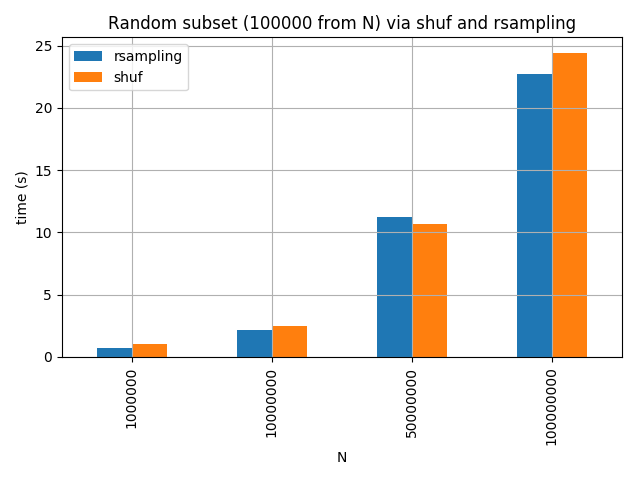
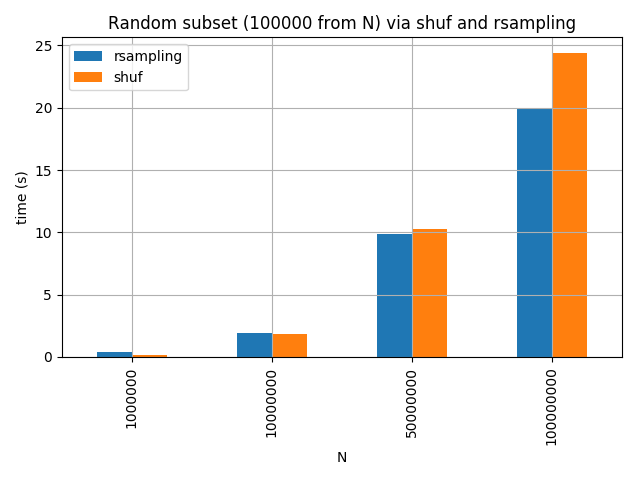
update README

diff --git a/chart.py b/chart.py
@@ -99,6 +99,7 @@ if __name__ == '__main__':
     sizes = (10, 100, 1000, 10000, 20000, 30000, 40000, 50000)
     bm = collections.defaultdict(list)
 
+    # Basic benchmark.
     for n in sizes:
         with Timer() as t:
             shellout("seq {n} | rsampling -s 16", n=n)
@@ -152,12 +153,12 @@ if __name__ == '__main__':
 
     for n in sizes:
         with Timer() as t:
-            shellout("seq {n} | rsampling -s 100000", n=n)
+            shellout("seq {n} | rsampling -s 100000 > /dev/null", n=n)
         bm['rsampling'].append(t.elapsed)
 
     for n in sizes:
         with Timer() as t:
-            shellout("seq {n} | shuf | head -100000", n=n, pipefail=False)
+            shellout("seq {n} | shuf | head -100000 > /dev/null", n=n, pipefail=False)
         bm['shuf'].append(t.elapsed)
     
     df = pd.DataFrame(bm, index=sizes)

diff --git a/README.md b/README.md
@@ -69,6 +69,16 @@ user    0m0.168s
 sys     0m0.013s
 ```
 
+## Comparison to sort and shuf
+
+Options:
+
+```
+$ seq 100 | rsampling -s 16
+$ seq 100 | sort -R | head -16
+$ seq 100 | shuf | head -16
+```
+
 Sort, shuf and rsampling.
 
 ![](bm1.png)
